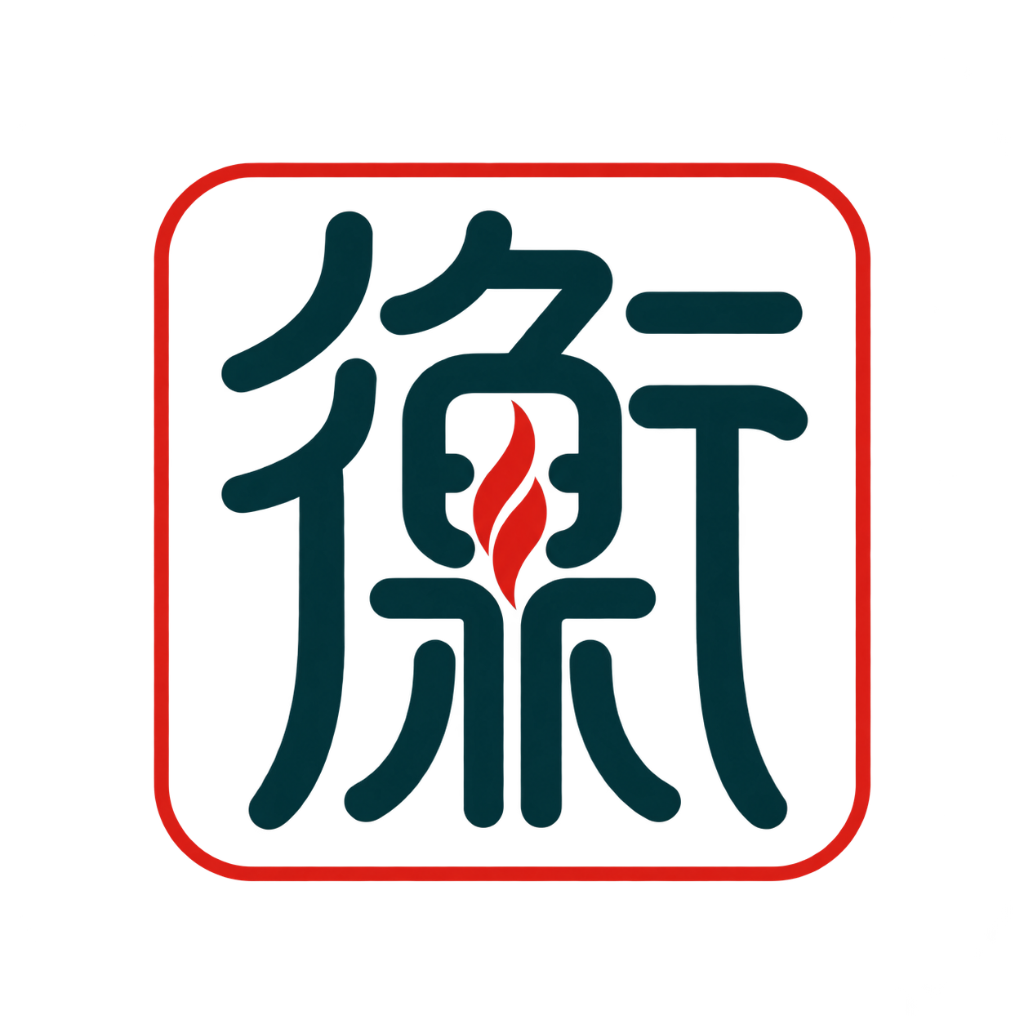
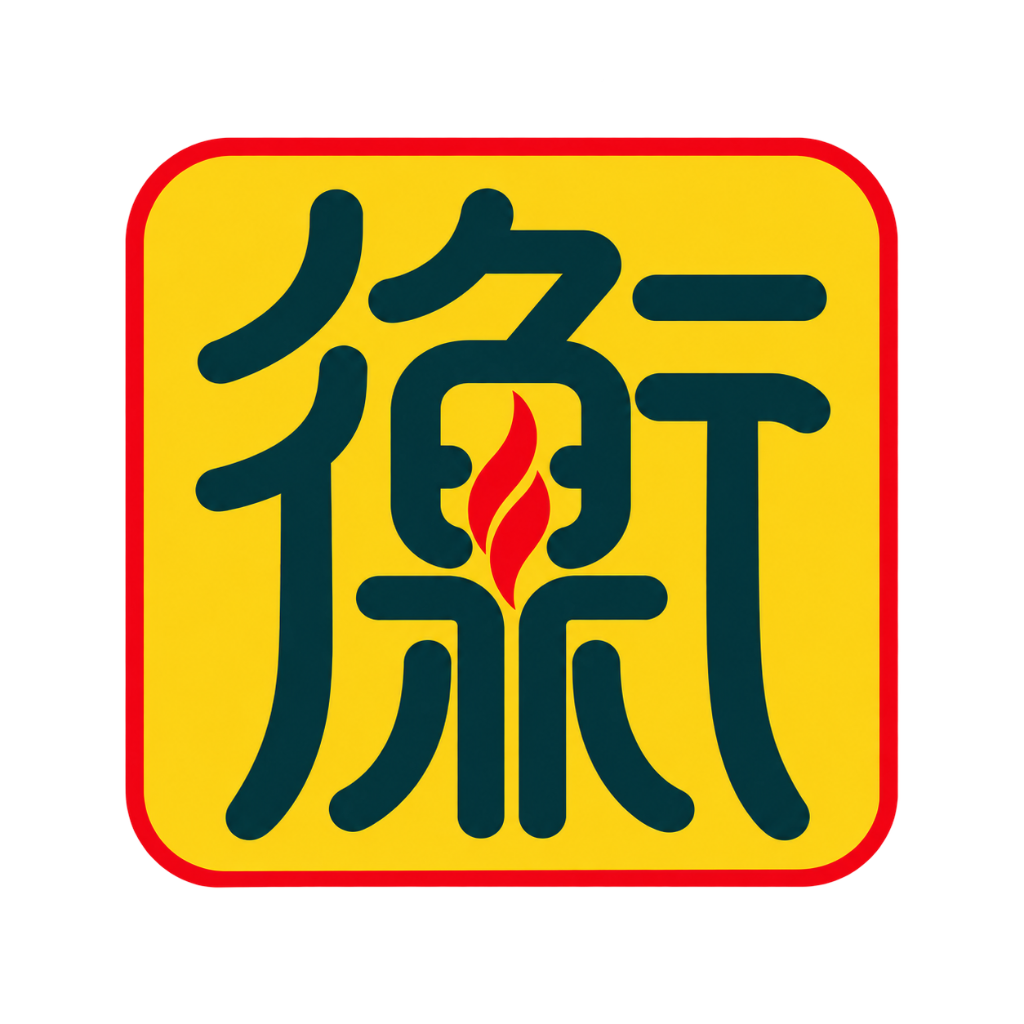
feat: 升级品牌标识为金黄圆角衡章与八彩花瓣，文字修改为衡绩考核；更新中心实现在线更新包下载至本地D盘并自动定位高亮

diff --git a/app/desktop-workspace.tsx b/app/desktop-workspace.tsx
@@ -344,7 +344,7 @@ function BurstLogo({ size = 32 }: { size?: number }) {
 // -------------------------------------------------------------
 function DualBrandLogo({ size = 32 }: { size?: number }) {
   return (
-    <div style={{ display: 'inline-flex', alignItems: 'center', gap: '8px', flexShrink: 0 }}>
+    <div style={{ display: 'inline-flex', alignItems: 'center', gap: '7px', flexShrink: 0 }}>
       <img
         src={brandHengSeal}
         alt="衡"
@@ -353,12 +353,12 @@ function DualBrandLogo({ size = 32 }: { size?: number }) {
         style={{
           width: size,
           height: size,
-          objectFit: 'contain',
-          borderRadius: Math.max(5, Math.round(size * 0.18)),
+          objectFit: 'cover',
+          borderRadius: Math.max(6, Math.round(size * 0.22)),
           display: 'inline-block',
           verticalAlign: 'middle',
           flexShrink: 0,
-          boxShadow: '0 2px 6px rgba(0,0,0,0.15)',
+          boxShadow: '0 2px 6px rgba(0,0,0,0.18)',
         }}
       />
       <img
@@ -1381,11 +1381,11 @@ export default function DesktopWorkspace() {
   return (
     <div className="shell">
       <aside className="sidebar">
-        <div className="brand" style={{ display: 'flex', alignItems: 'center', gap: '12px', padding: '0 8px 22px', borderBottom: '1px solid rgba(255, 255, 255, 0.08)', marginBottom: '18px' }}>
-          <DualBrandLogo size={34} />
+        <div className="brand" style={{ display: 'flex', alignItems: 'center', gap: '10px', padding: '0 8px 20px', borderBottom: '1px solid rgba(255, 255, 255, 0.08)', marginBottom: '18px' }}>
+          <DualBrandLogo size={32} />
           <div style={{ display: 'flex', alignItems: 'center' }}>
-            <strong style={{ fontSize: '21px', fontWeight: 800, letterSpacing: '2.5px', color: '#ffffff', lineHeight: 1 }}>
-              衡绩
+            <strong style={{ fontSize: '18px', fontWeight: 800, letterSpacing: '1.2px', color: '#ffffff', lineHeight: 1, whiteSpace: 'nowrap' }}>
+              衡绩考核
             </strong>
           </div>
         </div>
@@ -2363,35 +2363,46 @@ function UpdateModal({
   const [updating, setUpdating] = useState(false);
   const [updateStepText, setUpdateStepText] = useState('正在更新中...');
   const [updateSuccess, setUpdateSuccess] = useState(false);
+  const [downloadedPath, setDownloadedPath] = useState<string>('');
+  const [downloadError, setDownloadError] = useState<string>('');
 
-  const handleStartUpdate = () => {
-    if (updating || updateSuccess) return;
+  const handleStartUpdate = async () => {
+    if (updating) return;
     setUpdating(true);
-    setUpdateStepText('正在更新中...');
+    setDownloadError('');
+    setUpdateStepText('正在准备下载到 D盘...');
 
-    // 阶段式推进真实视觉动效体验，不打开任何网页
-    setTimeout(() => {
-      setUpdateStepText('正在更新中 (正在同步资源)...');
-    }, 1000);
-
-    setTimeout(() => {
-      setUpdateStepText('正在更新中 (正在装载配置)...');
-    }, 2000);
-
-    setTimeout(() => {
+    const targetVer = result?.latestVersion || APP_VERSION;
+    try {
+      if (typeof window !== 'undefined' && window.meritDesktop?.downloadUpdate) {
+        setUpdateStepText('正在下载更新包至 D盘...');
+        const res = await window.meritDesktop.downloadUpdate({ version: targetVer });
+        if (res && res.success) {
+          setDownloadedPath(res.filePath);
+          setUpdateSuccess(true);
+          setUpdateStepText(`已成功下载至 ${res.filePath}`);
+        } else {
+          throw new Error('未能保存更新包到本地');
+        }
+      } else {
+        // 浏览器环境网页模式下载
+        setUpdateStepText('正在发起浏览器下载...');
+        const downloadUrl = `https://github.com/zoufudun/hengji/releases/download/v${targetVer}/%E8%A1%A1%E7%BB%A9%E5%91%98%E5%B7%A5%E7%BB%A9%E7%82%B9%E8%80%83%E6%A0%B8%E7%B3%BB%E7%BB%9F-${targetVer}.exe`;
+        const a = document.createElement('a');
+        a.href = downloadUrl;
+        a.download = `衡绩员工绩点考核系统-${targetVer}.exe`;
+        a.target = '_blank';
+        document.body.appendChild(a);
+        a.click();
+        document.body.removeChild(a);
+        setDownloadedPath(`浏览器默认下载目录 / 衡绩员工绩点考核系统-${targetVer}.exe (可转存至D盘)`);
+        setUpdateSuccess(true);
+      }
+    } catch (err: any) {
+      setDownloadError(err?.message || '下载更新包失败');
+    } finally {
       setUpdating(false);
-      setUpdateSuccess(true);
-      setResult((prev) =>
-        prev
-          ? {
-              ...prev,
-              hasUpdate: false,
-              latestVersion: prev.latestVersion || APP_VERSION,
-              releaseNotes: prev.releaseNotes || '系统已成功热更新至最新配置与功能模块。',
-            }
-          : null
-      );
-    }, 3000);
+    }
   };
 
   const doCheck = async () => {
@@ -2481,7 +2492,7 @@ function UpdateModal({
                   letterSpacing: '0.2px',
                 }}
               >
-                衡绩 (HengJi)
+                衡绩考核 (HengJi)
               </h3>
               <div style={{ fontSize: '13px', color: '#64748b', marginTop: '2px' }}>
                 版本 v{APP_VERSION}
@@ -2530,7 +2541,7 @@ function UpdateModal({
                   cursor: 'wait',
                   opacity: 0.95,
                 }}
-                title="正在为您进行热更新，请稍候..."
+                title="正在为您下载更新包至本地，请稍候..."
               >
                 <Loader2 size={16} className="spin-icon" />
                 {updateStepText}
@@ -2549,11 +2560,17 @@ function UpdateModal({
                   display: 'inline-flex',
                   alignItems: 'center',
                   gap: '6px',
-                  cursor: 'default',
+                  cursor: 'pointer',
                 }}
+                onClick={() => {
+                  if (downloadedPath && window.meritDesktop?.showItemInFolder) {
+                    window.meritDesktop.showItemInFolder(downloadedPath);
+                  }
+                }}
+                title={downloadedPath ? `已保存至：${downloadedPath} (点击打开)` : '已成功下载'}
               >
                 <CheckCircle2 size={15} color="#16a34a" />
-                更新成功 (已是最新版)
+                已下载至本地 (点击查看)
               </button>
             ) : result?.hasUpdate ? (
               <button
@@ -2582,7 +2599,7 @@ function UpdateModal({
                   e.currentTarget.style.boxShadow = '0 4px 12px rgba(234, 88, 12, 0.35)';
                 }}
                 onClick={handleStartUpdate}
-                title="点击就地更新到新版本"
+                title="点击将更新包下载到本地 D盘"
               >
                 <CloudDownload size={16} />
                 更新到 v{result.latestVersion}
@@ -2654,11 +2671,11 @@ function UpdateModal({
             {checking
               ? '正在连接官方仓库检测最新版本...'
               : updating
-              ? '正在就地下载并应用新版本组件，请稍候...'
+              ? '正在下载更新包至本地 D盘，请稍候...'
               : updateSuccess
-              ? `🎉 恭喜！已成功就地更新至最新版 (v${result?.latestVersion || APP_VERSION})`
+              ? `🎉 更新包已成功保存至本地！(v${result?.latestVersion || APP_VERSION})`
               : result?.hasUpdate
-              ? `检测到新版本: ${result.latestVersion}`
+              ? `检测到新版本: ${result.latestVersion} (点击上方按钮即可下载更新包到本地)`
               : result?.error
               ? `检测提示: ${result.error}`
               : `检测到新版本: 无 (当前已是官方最新版本 ${APP_VERSION})`}
@@ -2685,6 +2702,103 @@ function UpdateModal({
             </button>
           )}
         </div>
+
+        {/* 下载结果与文件路径展示卡片 */}
+        {downloadedPath && (
+          <div
+            style={{
+              margin: '16px 28px 0',
+              padding: '14px 18px',
+              background: '#f0fdf4',
+              border: '1px solid #86efac',
+              borderRadius: '10px',
+              display: 'flex',
+              alignItems: 'center',
+              justifyContent: 'space-between',
+              gap: '12px',
+              boxShadow: '0 2px 8px rgba(22, 163, 74, 0.08)',
+            }}
+          >
+            <div style={{ display: 'flex', alignItems: 'center', gap: '10px' }}>
+              <CheckCircle2 size={22} color="#16a34a" style={{ flexShrink: 0 }} />
+              <div>
+                <div style={{ fontWeight: 700, color: '#15803d', fontSize: '13.5px' }}>
+                  更新安装包已就绪并成功下载至本地！
+                </div>
+                <div style={{ fontSize: '12px', color: '#166534', marginTop: '2px', wordBreak: 'break-all' }}>
+                  文件路径：<b>{downloadedPath}</b>
+                </div>
+              </div>
+            </div>
+            <div style={{ display: 'flex', gap: '8px', flexShrink: 0 }}>
+              {typeof window !== 'undefined' && window.meritDesktop?.showItemInFolder && (
+                <button
+                  type="button"
+                  style={{
+                    background: '#ffffff',
+                    border: '1px solid #86efac',
+                    color: '#15803d',
+                    borderRadius: '6px',
+                    padding: '6px 12px',
+                    fontSize: '12px',
+                    fontWeight: 600,
+                    cursor: 'pointer',
+                    display: 'inline-flex',
+                    alignItems: 'center',
+                    gap: '5px',
+                  }}
+                  onClick={() => window.meritDesktop?.showItemInFolder?.(downloadedPath)}
+                >
+                  <FolderOpen size={13} />
+                  打开所在文件夹
+                </button>
+              )}
+              {typeof window !== 'undefined' && window.meritDesktop?.openPath && (
+                <button
+                  type="button"
+                  style={{
+                    background: 'linear-gradient(135deg, #16a34a 0%, #15803d 100%)',
+                    border: 'none',
+                    color: '#ffffff',
+                    borderRadius: '6px',
+                    padding: '6px 12px',
+                    fontSize: '12px',
+                    fontWeight: 600,
+                    cursor: 'pointer',
+                    display: 'inline-flex',
+                    alignItems: 'center',
+                    gap: '5px',
+                    boxShadow: '0 2px 6px rgba(21, 128, 61, 0.25)',
+                  }}
+                  onClick={() => window.meritDesktop?.openPath?.(downloadedPath)}
+                >
+                  <Sparkles size={13} />
+                  立即运行更新包
+                </button>
+              )}
+            </div>
+          </div>
+        )}
+
+        {downloadError && (
+          <div
+            style={{
+              margin: '16px 28px 0',
+              padding: '12px 16px',
+              background: '#fef2f2',
+              border: '1px solid #fecaca',
+              borderRadius: '8px',
+              color: '#b91c1c',
+              fontSize: '12.5px',
+              display: 'flex',
+              alignItems: 'center',
+              gap: '8px',
+            }}
+          >
+            <AlertTriangle size={16} />
+            <span>{downloadError}</span>
+          </div>
+        )}
 
         {/* 快捷操作标签栏：官方网站、更新日志、近期更新 */}
         <div

diff --git a/app/desktop-global.d.ts b/app/desktop-global.d.ts
@@ -25,5 +25,8 @@ declare global { interface Window { meritDesktop: {
   showData(): Promise<void>;
   refocusWindow?(): Promise<boolean>;
   openUrl?(url: string): Promise<boolean>;
+  downloadUpdate?(payload: { version: string }): Promise<{ success: boolean; filePath: string; folder: string; fileName: string }>;
+  showItemInFolder?(filePath: string): Promise<boolean>;
+  openPath?(filePath: string): Promise<boolean>;
 } } }
 export {};
